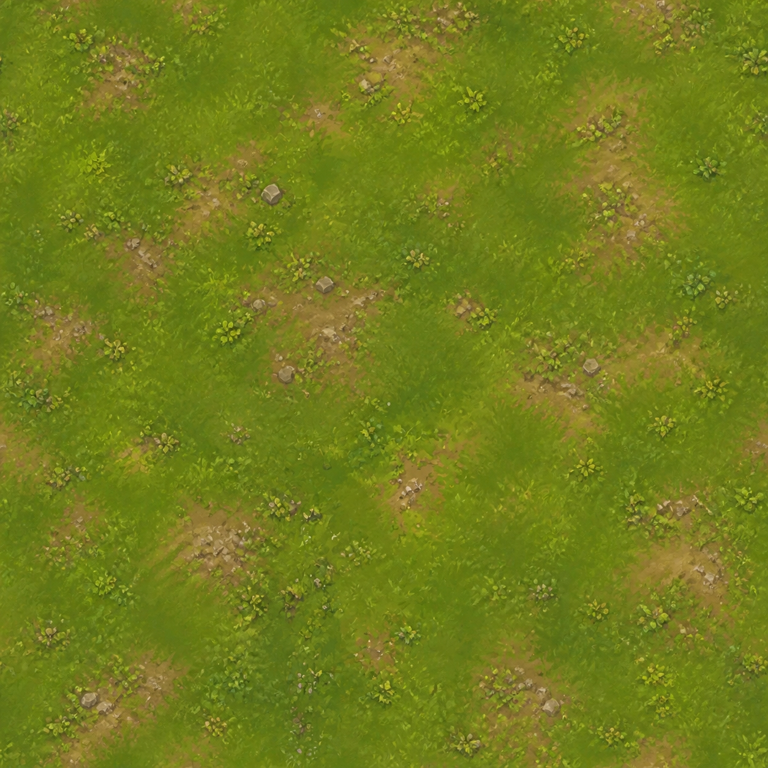
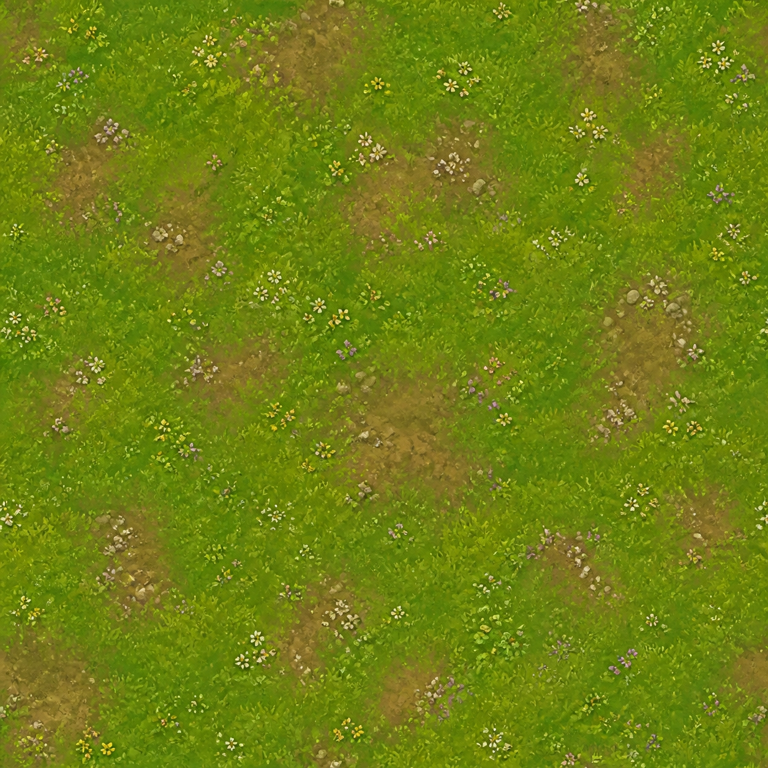
v385: 초원·용암 바닥 텍스처 재생성 교체 — 2×2 심 판독 SEAM_OK×2·vm·audit 실측 통과, GT_IM ?v=385 캐시버스팅

diff --git a/royal-arena/index.html b/royal-arena/index.html
@@ -1152,7 +1152,7 @@ html body .theme-row .t-btn{height:34px !important;font-size:11px !important;lin
 html body .t-links button, html body #btn-deck-random, html body #btn-deck-edit{background:linear-gradient(180deg,rgba(14,34,61,.95),rgba(10,22,40,.95)) !important;border:1px solid #c89b3c !important;border-radius:14px !important;color:#f2f6ff !important;font-weight:700 !important;line-height:1.2 !important;text-shadow:none !important;min-height:34px !important;display:flex !important;align-items:center !important;justify-content:center !important;overflow:hidden !important;text-overflow:ellipsis !important;white-space:nowrap !important;padding:4px 8px !important}
 html body #deck-edit{padding-bottom:150px !important}
 </style>
-<div id="verchip" style="position:fixed;left:6px;bottom:2px;z-index:99990;background:rgba(0,0,0,.55);color:#ffd75e;font:700 10px monospace;padding:2px 6px;opacity:.62;border-radius:8px;pointer-events:none">v384</div><div id="app">
+<div id="verchip" style="position:fixed;left:6px;bottom:2px;z-index:99990;background:rgba(0,0,0,.55);color:#ffd75e;font:700 10px monospace;padding:2px 6px;opacity:.62;border-radius:8px;pointer-events:none">v385</div><div id="app">
 
   <!-- ===== 타이틀 ===== -->
   <section id="screen-title">

diff --git a/royal-arena/js/g9-wide.js b/royal-arena/js/g9-wide.js
@@ -1,5 +1,5 @@
 /* v382/v383: 와이드 아레나 시스템 — 캔버스 폭=박스 비율(레터박스 제거)+다리 1~3 랜덤+지면 재렌더. g1의 VW/BAND/BRIDGES를 갱신 */
-const GT_IM={};['classic','lava','ice','wasteland','abyss'].forEach(function(t){const im=new Image();im.src='assets/ground_'+t+'.png';GT_IM[t]=im;});
+const GT_IM={};['classic','lava','ice','wasteland','abyss'].forEach(function(t){const im=new Image();im.src='assets/ground_'+t+'.png?v=385';GT_IM[t]=im;});
 function __fitWide(){   /* v383: 측정+캔버스 리사이즈+지면 재도색(다리·타워 불변) */
   try{
     const r=canvas.getBoundingClientRect(), asp=r.width/Math.max(1,r.height);

diff --git a/royal-arena/sw.js b/royal-arena/sw.js
@@ -1,4 +1,4 @@
-const CACHE = 'royal-arena-v384';
+const CACHE = 'royal-arena-v385';
 const CORE = ['./', 'index.html', 'manifest.json', 'icon-192.png', 'icon-512.png', 'maskable-512.png', 'js/g1-art-assets.js', 'js/g2-sprite-assets.js', 'js/g3-frame-assets.js', 'js/g4-ux-data.js', 'js/g5-core.js', 'js/g6-battle.js', 'js/g7-ui-systems.js', 'js/g8-boot.js', 'js/g9-wide.js', 'qa-driver.js', ];
 self.addEventListener('install', e => {
   e.waitUntil(caches.open(CACHE).then(c => c.addAll(CORE)).then(() => self.skipWaiting()));

diff --git a/royal-arena/HANDOFF.md b/royal-arena/HANDOFF.md
@@ -1,5 +1,5 @@
 # 로얄 아레나 인수인계 문서 (HANDOFF)
-> 최종 갱신: 2026-11-09 (v384 기준) — 이전 세션의 작업 결과·현재 상태·검증 절차를 담는다. 매 사이클 종료 시 갱신 의무(dev-pipeline G5).
+> 최종 갱신: 2026-11-09 (v385 기준) — 이전 세션의 작업 결과·현재 상태·검증 절차를 담는다. 매 사이클 종료 시 갱신 의무(dev-pipeline G5).
 
 ## 1. 현재 버전·배포 상태 (v382, 코드 게이트 통과·라이브 검증 진행)
 - 라이브: https://erioweb-lab.github.io/Royal-Arena/royal-arena/ — 칩 v381·sw 캐시 v381 동기화 확인.
@@ -57,5 +57,8 @@
 ### v383 (2026-11-09)
 - 기기 캡처(v382) 판독: 칩 v382·생성 질감·랜덤 다리 정상 확인, 좌우 여백 한쪽 5~7% 잔존 — startMatch 시점 1회 측상이 레이아웃 안정 전 값. __fitWide/__rollWide 분리+1.2s 주기 __wideCheck 자동 보정(다리 유지)으로 수복. 칩·sw v383.
 
-### v384 (2026-11-09 — 현재)
+### v384 (2026-11-09)
 - 기기 v383 캡처 판독: 밴드가 텍스처가 아닌 남색 단색 — 근본 원인 2중 버그(메인 루프 bgc 합성 폭 W 고정 + drawStatic bgc 좌표 쉬프트 부재). 확장 렌더의 필수 쌍: ①합성 목적지(-BAND,0,VW,H) ②bgc 기준 변환(+BAND). v384 수복, 칩·sw v384.
+
+### v385 (2026-11-09 — 현재)
+- 초원·용암 바닥 텍스처 재생성 교체(사용자 지시): classic=풀밭+들꽃·닳은 흙길, lava=현무암+크림슨 용암 균열. 768²·3조건 유지, 2×2 심 판독 통과 후 배포. ?v=385 캐시버스팅, 칩·sw v385.

diff --git a/royal-arena/royal-arena-changelog.md b/royal-arena/royal-arena-changelog.md
@@ -68,4 +68,5 @@
 - v382 정정: 직전 커밋(83b8244) 메시지의 "audit 게이트 실측 통과"는 과장 — 실측은 AUDIT:FAIL(g1 261,248>260,000)이었고 audit.sh가 FAIL에서도 exit 0을 반환해 체인이 멈추지 않은 버그 노출. 수복: 와이드 시스템을 js/g9-wide.js 신규 청크로 분리(g1 258KB대 복원)+게이트 강제(grep AUDIT:OK) 후 재검증.
 - v383: 와이드 폭 1회 측정 한계 수복(기기 캡처: 칩 v382·질감/랜덤다리 정상, 좌우 5~7% 잔여 여백) — __fitWide(측정·리사이즈·재도색)와 __rollWide(다리 랜덤) 분리, 1.2초 주기+resize로 비율 어긋남>2% 자동 보정(다리·타워 유지, 카메라 클램프). 칩·sw v383.
 - v384: 밴드 미도색 근본 수복(기기 v383 캡처 실증 — 여백이 짙은 남색 단색으로 잔존) — ①메인 루프 bgc 합성을 (0,0,W,H)→(-BAND,0,VW,H) ②drawStatic 기본 변환에 +BAND 쉬프트(bgc 좌표=월드+BAND, 좌우 밴드 대칭) ③외벽은 플레이 경계 0..W 고정 ④비네트 중심 W/2 복원. 칩·sw v384.
+- v385: 초원·용암 바닥 텍스처 재생성 교체(사용자 지시) — assets/ground_classic.png·ground_lava.png 신규 생성물(768²·seamless/top-down/no-shadow 3조건·2×2 심 판독 게이트), 나머지 3테마 유지. GT_IM URL ?v=385 캐시버스팅(동명 파일 SW 스테일 방지), 칩·sw v385.
 
